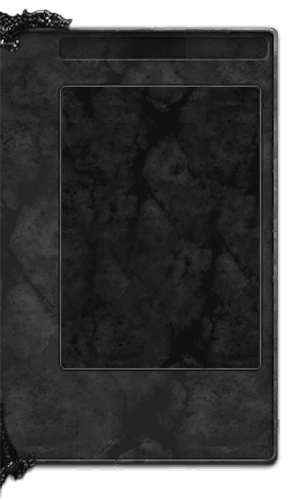
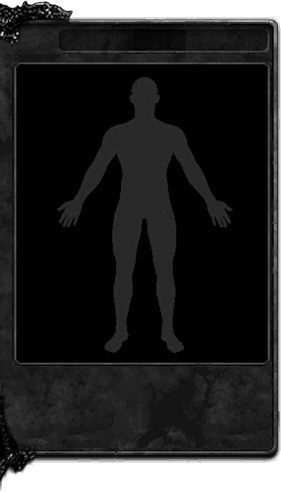
맵 로드 시 NPC 정보 담도록 함

diff --git a/TeamPortPolio/TeamPortPolio/cObjLoader.cpp b/TeamPortPolio/TeamPortPolio/cObjLoader.cpp
@@ -343,7 +343,7 @@ LPD3DXMESH cObjLoader::LoadMesh_Map(OUT vector<cMtlTex*> &vecMtlTex, OUT vector<
 {
 	ST_PNT_VERTEX		vertex = ST_PNT_VERTEX();
 	vector<DWORD>		vecAttrBuf;
-
+	ST_NPC_INFO npcInfo;
 	string sFullPath(szFolder);
 	sFullPath += (string("/") + string(szFile));
 
@@ -507,6 +507,24 @@ LPD3DXMESH cObjLoader::LoadMesh_Map(OUT vector<cMtlTex*> &vecMtlTex, OUT vector<
 
 			vecConstruct.push_back(pConstruct);
 		}
+		else if (szTemp[0] == 'p')
+		{
+			int nSID = -1;
+			D3DXVECTOR3 vPos = D3DXVECTOR3(0, 0, 0);
+			D3DXVECTOR3 vScale = D3DXVECTOR3(0, 0, 0);
+			float fRotX = 0.0f;
+			float fRotY = 0.0f;
+			float fRotZ = 0.0f;
+
+			sscanf_s(szTemp, "%*s %d %f %f %f %f %f %f %f %f %f",
+				&nSID,
+				&vPos.x, &vPos.y, &vPos.z,
+				&vScale.x, &vScale.y, &vScale.z,
+				&fRotX, &fRotY, &fRotZ);
+
+			npcInfo = ST_NPC_INFO(nSID, vPos, vScale, fRotX, fRotY, fRotZ);
+			m_vecStNPC.push_back(npcInfo);
+		}
 	}
 
 	fclose(fp);
@@ -554,4 +572,9 @@ ST_WEATHER& cObjLoader::GetWeatherInfo()
 ST_SHADOW& cObjLoader::GetShadowInfo()
 {
 	return m_stShadow;
+}
+
+vector<ST_NPC_INFO>& cObjLoader::GetNPCInfo()
+{
+	return m_vecStNPC;
 }

diff --git a/TeamPortPolio/TeamPortPolio/stdafx.h b/TeamPortPolio/TeamPortPolio/stdafx.h
@@ -481,6 +481,25 @@ struct ST_SHADOW
 	SYNTHESIZE(float, m_diffuseAlpha, ShadowDiffuseAlpha);
 };
 
+struct ST_NPC_INFO
+{
+	int nSID;
+	D3DXVECTOR3 pos;
+	D3DXVECTOR3 scale;
+	float fRotX, fRotY, fRotZ;
+	ST_NPC_INFO() {}
+	ST_NPC_INFO(int nSID, D3DXVECTOR3 pos, D3DXVECTOR3 scale, float fRotX, float fRotY, float fRotZ)
+	{
+		this->nSID= nSID;
+		this->pos = pos;
+		this->scale = scale;
+		this->fRotX = fRotX;
+		this->fRotY = fRotY;
+		this->fRotZ = fRotZ;
+	}
+
+};
+
 //>>include
 #include "cEffectManager.h"
 #include "cDeviceManager.h"

diff --git a/TeamPortPolio/TeamPortPolio/cObjLoader.h b/TeamPortPolio/TeamPortPolio/cObjLoader.h
@@ -14,6 +14,7 @@ private:
 
 	ST_WEATHER				m_stWeather;
 	ST_SHADOW				m_stShadow;
+	vector<ST_NPC_INFO>		m_vecStNPC;
 public:
 	void LoadMtlLib(char* szFolder, char* szFile);
 	LPD3DXMESH LoadMesh(OUT vector<cMtlTex*> &vecMtlTex, IN char* szFolder, IN char* szFile);
@@ -24,5 +25,6 @@ public:
 						IN char* szFolder, IN char* szFile, bool doOptimizeInplace = true);
 	ST_WEATHER& GetWeatherInfo();
 	ST_SHADOW& GetShadowInfo();
+	vector<ST_NPC_INFO>& GetNPCInfo();
 
 };

diff --git a/TeamPortPolio/TeamPortPolio/cMapManager.h b/TeamPortPolio/TeamPortPolio/cMapManager.h
@@ -19,8 +19,9 @@ class cMapManager : public Singleton<cMapManager>
 
 	ST_PNT_VERTEX           m_vPositionVertex;
 	
-	ST_WEATHER				m_stWeather;
-	ST_SHADOW				m_stShadow;
+	SYNTHESIZE(ST_WEATHER, m_stWeather, Weather);
+	SYNTHESIZE(ST_SHADOW, m_stShadow, Shadow);
+	SYNTHESIZE(vector<ST_NPC_INFO>, m_vecStNPC, VecNPC);
 public:
 	cMapManager();
 	~cMapManager();
@@ -37,7 +38,5 @@ public:
 	void Destroy();
 
 	cHeightMap* GetMap() { return m_pMap; }
-
-	
 };
 

diff --git a/TeamPortPolio/TeamPortPolio/cMapManager.cpp b/TeamPortPolio/TeamPortPolio/cMapManager.cpp
@@ -66,6 +66,7 @@ void cMapManager::Init(int sceneID)
 	m_stWeather = loader.GetWeatherInfo();
 	m_stShadow = ST_SHADOW();
 	m_stShadow = loader.GetShadowInfo();
+	m_vecStNPC = loader.GetNPCInfo();
 	m_pMap->Setup(nCellPerRow, fCellSpace, vecVertex, vecIndex);
 	m_pMap->SetMesh(pMesh);
 	m_pMap->SetVecMtlTex(vecMtlTex);

diff --git a/TeamPortPolio/TeamPortPolio/cTownScene.cpp b/TeamPortPolio/TeamPortPolio/cTownScene.cpp
@@ -16,6 +16,7 @@ void cTownScene::OnEnter()
 {
 	D3DXCreateSprite(D3DDevice, &m_pSprite);
 	MAP->Init(SCENE_TOWN);
+	vector<ST_NPC_INFO> vecNPC = MAP->GetVecNPC();
 	UI->Change(SCENE_TOWN);
 	Setup_DirLight();
 
